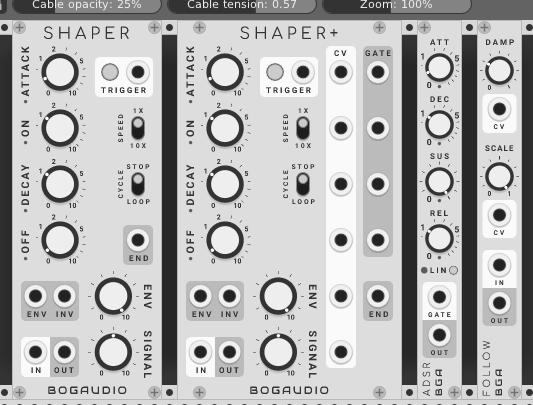
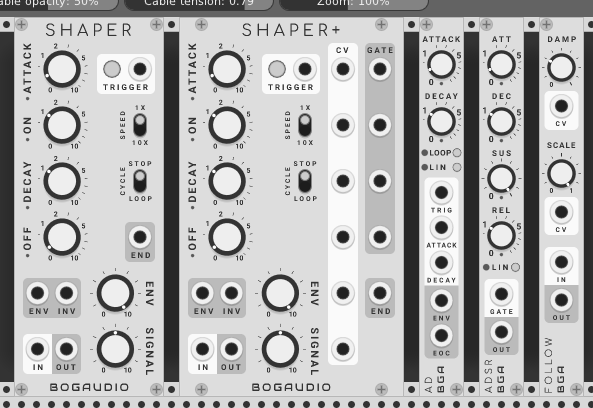
Drop experimental flag from new modules; bump version; update README and screenshots.

diff --git a/src/bogaudio.cpp b/src/bogaudio.cpp
@@ -75,31 +75,24 @@ void init(rack::Plugin *p) {
 	p->addModel(modelDGate);
 	p->addModel(modelShaper);
 	p->addModel(modelShaperPlus);
-#ifdef EXPERIMENTAL
 	p->addModel(modelAD);
-#endif
 	p->addModel(modelADSR);
 	p->addModel(modelFollow);
 
 	p->addModel(modelMix4);
 	p->addModel(modelMix8);
 	p->addModel(modelVCM);
-#ifdef EXPERIMENTAL
 	p->addModel(modelUMix);
-	p->addModel(modelMatrix88);
 	p->addModel(modelMute8);
-#endif
 	p->addModel(modelPan);
 	p->addModel(modelXFade);
 	p->addModel(modelVCA);
 	p->addModel(modelVCAmp);
 
-#ifdef EXPERIMENTAL
 	p->addModel(modelAMRM);
 	p->addModel(modelPressor);
 	p->addModel(modelLmtr);
 	p->addModel(modelNsgt);
-#endif
 
 	p->addModel(modelAnalyzer);
 	p->addModel(modelVU);
@@ -109,9 +102,7 @@ void init(rack::Plugin *p) {
 	p->addModel(modelReftone);
 
 	p->addModel(modelBool);
-#ifdef EXPERIMENTAL
 	p->addModel(modelCmp);
-#endif
 	p->addModel(modelCVD);
 	p->addModel(modelFlipFlop);
 	p->addModel(modelManual);
@@ -124,6 +115,7 @@ void init(rack::Plugin *p) {
 
 #ifdef EXPERIMENTAL
 	p->addModel(modelLag);
+	p->addModel(modelMatrix88);
 #endif
 
 #ifdef TEST

diff --git a/README.md b/README.md
@@ -1,15 +1,21 @@
 # BogaudioModules
+
 Modules for [VCV Rack](https://github.com/VCVRack/Rack), an open-source Eurorack-style virtual modular synthesizer:
 
   - [Oscillators](#oscillators)
   - [LFOs](#lfos)
   - [Envelopes and Envelope Utilities](#envelopes)
   - [Mixers, Panners and VCAs](#mixers)
+  - [Effects and Dynamics](#effects)
   - [Visualizers](#visualizers)
   - [Pitch CV Utilities](#pitch)
   - [Other Utilities](#utilities)
 
-![Modules screenshot](./doc/www/modules.png)
+![modules screenshot](./doc/www/modules1.png)
+
+![modules screenshot](./doc/www/modules2.png)
+
+![modules screenshot](./doc/www/modules3.png)
 
 
 ## Builds/Releases
@@ -27,7 +33,7 @@ You'll need to be set up to build [VCV Rack](https://github.com/VCVRack/Rack) it
   make
   ```
 
-The master branch of this module currently builds against Rack's master and v0.6.1 branches.
+The master branch of this module currently builds against Rack's 0.6.* branches.
 
 
 ## Modules
@@ -142,6 +148,14 @@ Features:
 
 SHAPER+ is a SHAPER, with the addition of CV inputs for each knob, and gate outputs for each stage (a stage's gate output will be high for the duration of the stage).
 
+#### AD
+
+An AD (attack-decay) envelope generator in 3HP.  The attack, decay and release knobs are exponentially scaled with durations up to 10 seconds.  The attack and decay times have CV inputs expecting +10V inputs; if a CV is present, the corresponding knob attenuates it.
+
+When a trigger voltage is received at the TRIG input, the envelope cycle begins, ignoring further triggers until it completes.  When the cycle completes, a trigger is output at EOC, and the cycle retriggers if the TRIG voltage is high.  If LOOP mode is enabled, the envelope cycles continuously regardless of the TRIG input.
+
+By default, the attack and decay envelope segments have an analog-ish curve; in linear mode (LIN button), the segments are linear.
+
 #### ADSR
 
 A standard ADSR (attack, decay, sustain, release) envelope generator in 3HP.  The attack, decay and release knobs are exponentially scaled with durations up to 10 seconds.  The sustain knob is linearly scaled, setting the sustain level from 0 to 10 volts.  Lights below each stage knob indicate which stage is active.
@@ -189,6 +203,16 @@ Features:
 
 By default, the output is hard clipped at +/-12 volts (this is a standard in Rack).  A context menu option allows this limit to be disabled.
 
+#### UMIX
+
+A 3HP unity mixer, usable with CV (e.g. combining triggers) or audio.  Up to 8 inputs are summed to the output.  Saturation (soft clipping) is applied to the output at +/-12 volts; the LEVEL knob allows attenuation of the mix before the saturation is applied.
+
+The context (right-click) menu has an option to average, rather than sum, the inputs.
+
+#### MUTE8
+
+MUTE8 provides 8 independent manual or CV-controlled mutes. Each channel is muted if its button is toggled on or if there is a positive voltage at its CV input.  Otherwise the input is passed to the output.
+
 #### PAN
 
 A stereo panner with dual inputs channels.  Each channel's panner may be controlled with a +/-5 volt CV; when CV is in use, it is attenuverted the corresponding knob.  Output saturates (soft clips) to +/-12 volts.
@@ -217,6 +241,50 @@ In linear mode (the LIN button), the knob/CV response is linear in amplitude (us
 A voltage-controlled amplifier, capable of adding 12 decibels gain to the input.  (12 decibels gain is the same as multiplying the input by 4.)
 
 The level may be controlled with a +10 volt CV; when CV is in use, it is attenuated by the corresponding slider.  The slider's toggle has a light indicating the output signal level.  The output saturates (soft clips) to +/-12 volts, where clipping becomes noticeable above +/-10 volts.
+
+### <a name="effects"></a> Effects and Dynamics
+
+![Mixers screenshot](doc/www/effects.png)
+
+#### AM/RM
+
+AM/RM is a ring- and amplitude-modulation effect and CV-controllable variable wave rectifier.
+
+  - With the default knob settings, the unit is a proper ring modulator: the MOD (modulator) and CAR (carrier) inputs are multiplied and the resulting wave is sent to the output.  MOD is passed unchanged to the RECT output.
+  - As RECTIFY goes from 0 to fully clockwise, the negative portion of the MOD input is progressively folded to positive, until at the full value the wave is fully rectified.  The modified input is output at RECT; the modified input is multiplied with the carrier input and sent to the output.
+  - The DRY/WET control mixes the otuput of the mod/carrier multiplication with the unmodified carrier input.
+
+The RECT inputs expects a bipolar (+/-5V) CV, which is added to the RECTIFY knob.  The D/W input works the same for the DRY/WET knob.
+
+Note: AM/RM is calibrated to expect +/-5V, 10V peak-to-peak signals (i.e. the output of a typical oscillator).  A modulator signal with a negative value in excess of -5V will be affected by the rectifier circuit even if the RECTIFY is zero.  To avoid this effect, you may need to attenuate a hot signal you wish to use as the modulator.
+
+#### PRESSOR
+
+PRESSOR is a stereo [compressor](https://en.wikipedia.org/wiki/Dynamic_range_compression) and [noise gate](https://en.wikipedia.org/wiki/Noise_gate) with many controls and a sidechain input.  A compressor attenuates signals louder than a threshold level; a noise gate attenuates signals quieter than a threshold level.
+
+The module's signal path has two main components: a detector, and the compressor/gate.  The detector -- effectively an envelope follower -- analyzes the inputs (including the sidechain input, if in use), producing a control signal which is used to control the compressor/gate.  The detector signal is also output at ENV.
+
+The various controls and ports work as follows:
+  - The MODE switch sets whether the module works a compressor (COMP) or noise gate (GATE).
+  - THRESHOLD sets the threshold in decibels.  The default 0dB setting corresponds to the 10V peak-to-peak output level of a standard oscillator.  The TRSH input expects a unipolar (+10V) input; if in use this is attenuated by the knob.
+  - RATIO sets the degree of attenuation applied to a signal.  In compressor mode, higher settings attenuate the signal more as the detector output goes above the threshold; at the maximum setting, the compressor becomes a limiter.  In gate mode, higher ratios more completely attenuate inputs below the threshold.  The RATIO CV input is unipolar (+10V), attenuated by the knob
+  - The COMPRESSION meter provides a visual indication of the amount of attenuation being applied to the input at any given moment, and is proportional to the CV output at ENV.
+  - ATACK and DECAY control lag times in the the movement of the detector signal as the input changes.  Each has a corresponding unipolar (+10V) CV attenuated by the corresponding knob.
+  - The DECTECT switch toggles the detector between RMS and peak level analyzers; RMS averages the input over a short window whereas PEAK uses the instantaneous level.
+  - KNEE toggles between a slightly softer or harder response as the attenuation turns on or off as the signal crosses the threshold.
+  - IN GAIN attenuates (up to -12db) or amplifies (up to +12db) the left and right inputs.  (It does not apply to the sidechain input.)  The modified input is sent to the detector and the compressor/gate.  The IGN CV input expects a bipolar (+/-5V) signal which is added to the knob position.
+  - OUT GAIN applies up to 24db of amplification to the left and right outputs, after the compressor/gate circuit does its work.  The outputs are subject to saturation (soft limiting at +/-12V).  The IGN CV input expects a bipolar (+/-5V) signal which is added to the knob position.
+  - IN/SIDE controls the input to the detector, as a mix/crossfade between the left/right inputs (which are processed by IN GAIN, then summed), and the sidechain input.
+
+Several of the settings can take fairly extreme values (e.g. OUT GAIN); this allows the module to be used as a distortion effect.
+
+#### LMTR
+
+LMTR is a compact (6HP) hard [limiter](https://en.wikipedia.org/wiki/Dynamic_range_compression) or clipper.  Its controls behave the same as the corresponding controls on PRESSOR.
+
+#### NSGT
+
+NSGT is a compact (6HP) [noise gate](https://en.wikipedia.org/wiki/Noise_gate).  Its controls behave the same as the corresponding controls on PRESSOR.
 
 ### <a name="visualizers"></a> Visualizers
 
@@ -268,9 +336,22 @@ Miscellaneous utilities.
 
 A boolean logic utility.  Inputs are considered true if the input voltage is greater than 1.  The top section takes two inputs and computes AND, OR and XOR at the outputs.  The lower section computes the negation of its input.  Output is 5 volts if an output is true, 0 otherwise.
 
+#### CMP
+
+CMP is window comparator utility.  It takes two inputs, A and B, which normal to 0V.  Each is summed with the value of its corresponding offset knob and clipped to +/-12V.  The four outputs indicate the relative values of A and B:
+
+ - A>B will output high if A is greater than or exactly equal to B.
+ - A<B will output high if A is less than B.
+ - EQ will output high if the difference between A and B are less than or equal to the window voltage.
+ - NOT will output high if EQ is low.
+
+The WINDOW knob specifies the window voltage.  LAG specifies a time of up to one second by which a change in the output will lag a change in the inputs states; if the input state switches back before the lag expires, the output does not change. WINDOW and LAG each take a unipolar (+10) voltage, each of which is attenuated by the corresponding knob.
+
+The OUTPUT switch sets the high and low voltage values for the outputs: 0V low/+10V high, or -5V low/+5V high.
+
 #### CVD
 
-A simple delay designed for use with CV.  Use it to delay triggers or gates, create a flip-flop that resets itself after a time, make a sequence run for a while then stop, to double up an envelope, or what have you.
+A simple delay designed for use with CV (though it works fine with audio).  Use it to delay triggers or gates, create a flip-flop that resets itself after a time, make a sequence run for a while then stop, to double up an envelope, or what have you.
 
 The large TIME knob sets the delay time, as scaled by the small knob (up to 0.1, 1 or 10 seconds); TIME takes a +10 CV, attenuated by the knob.  Reducing time truncates the internal delay buffer.  The DRY/WET knob sets the mix of the original and delayed signals at the output, with a +/-5 CV input.
 
